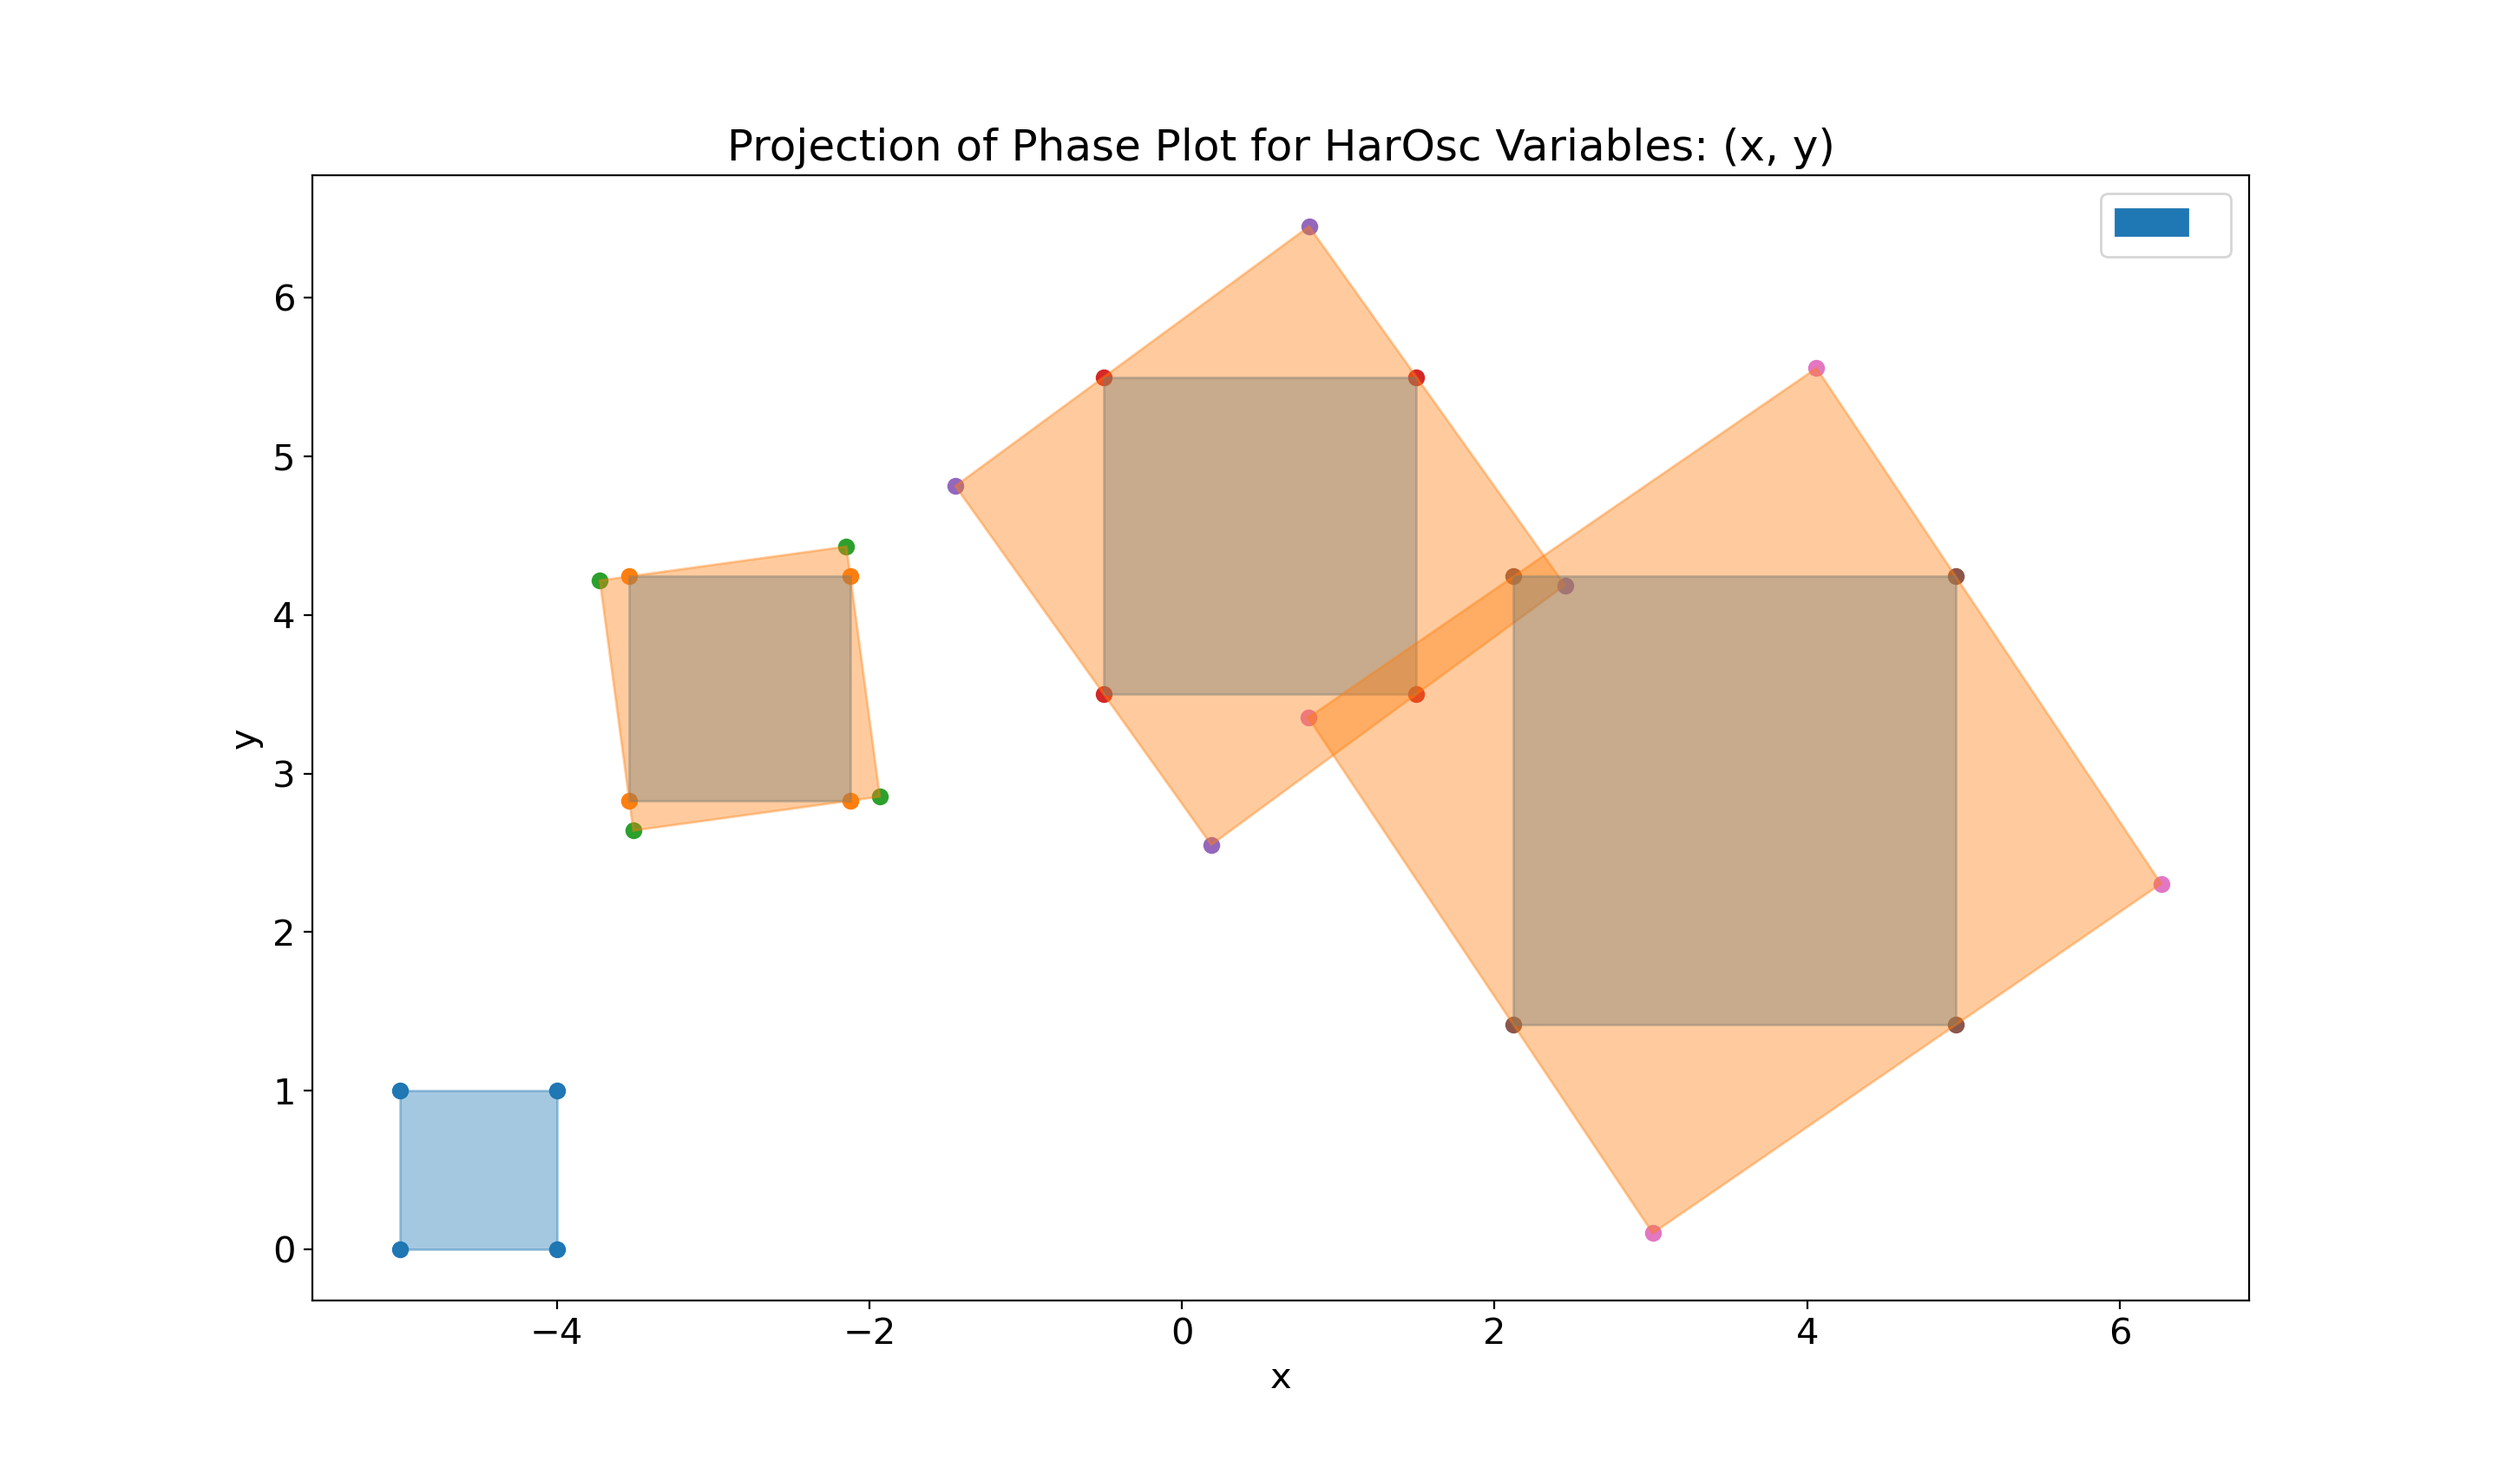
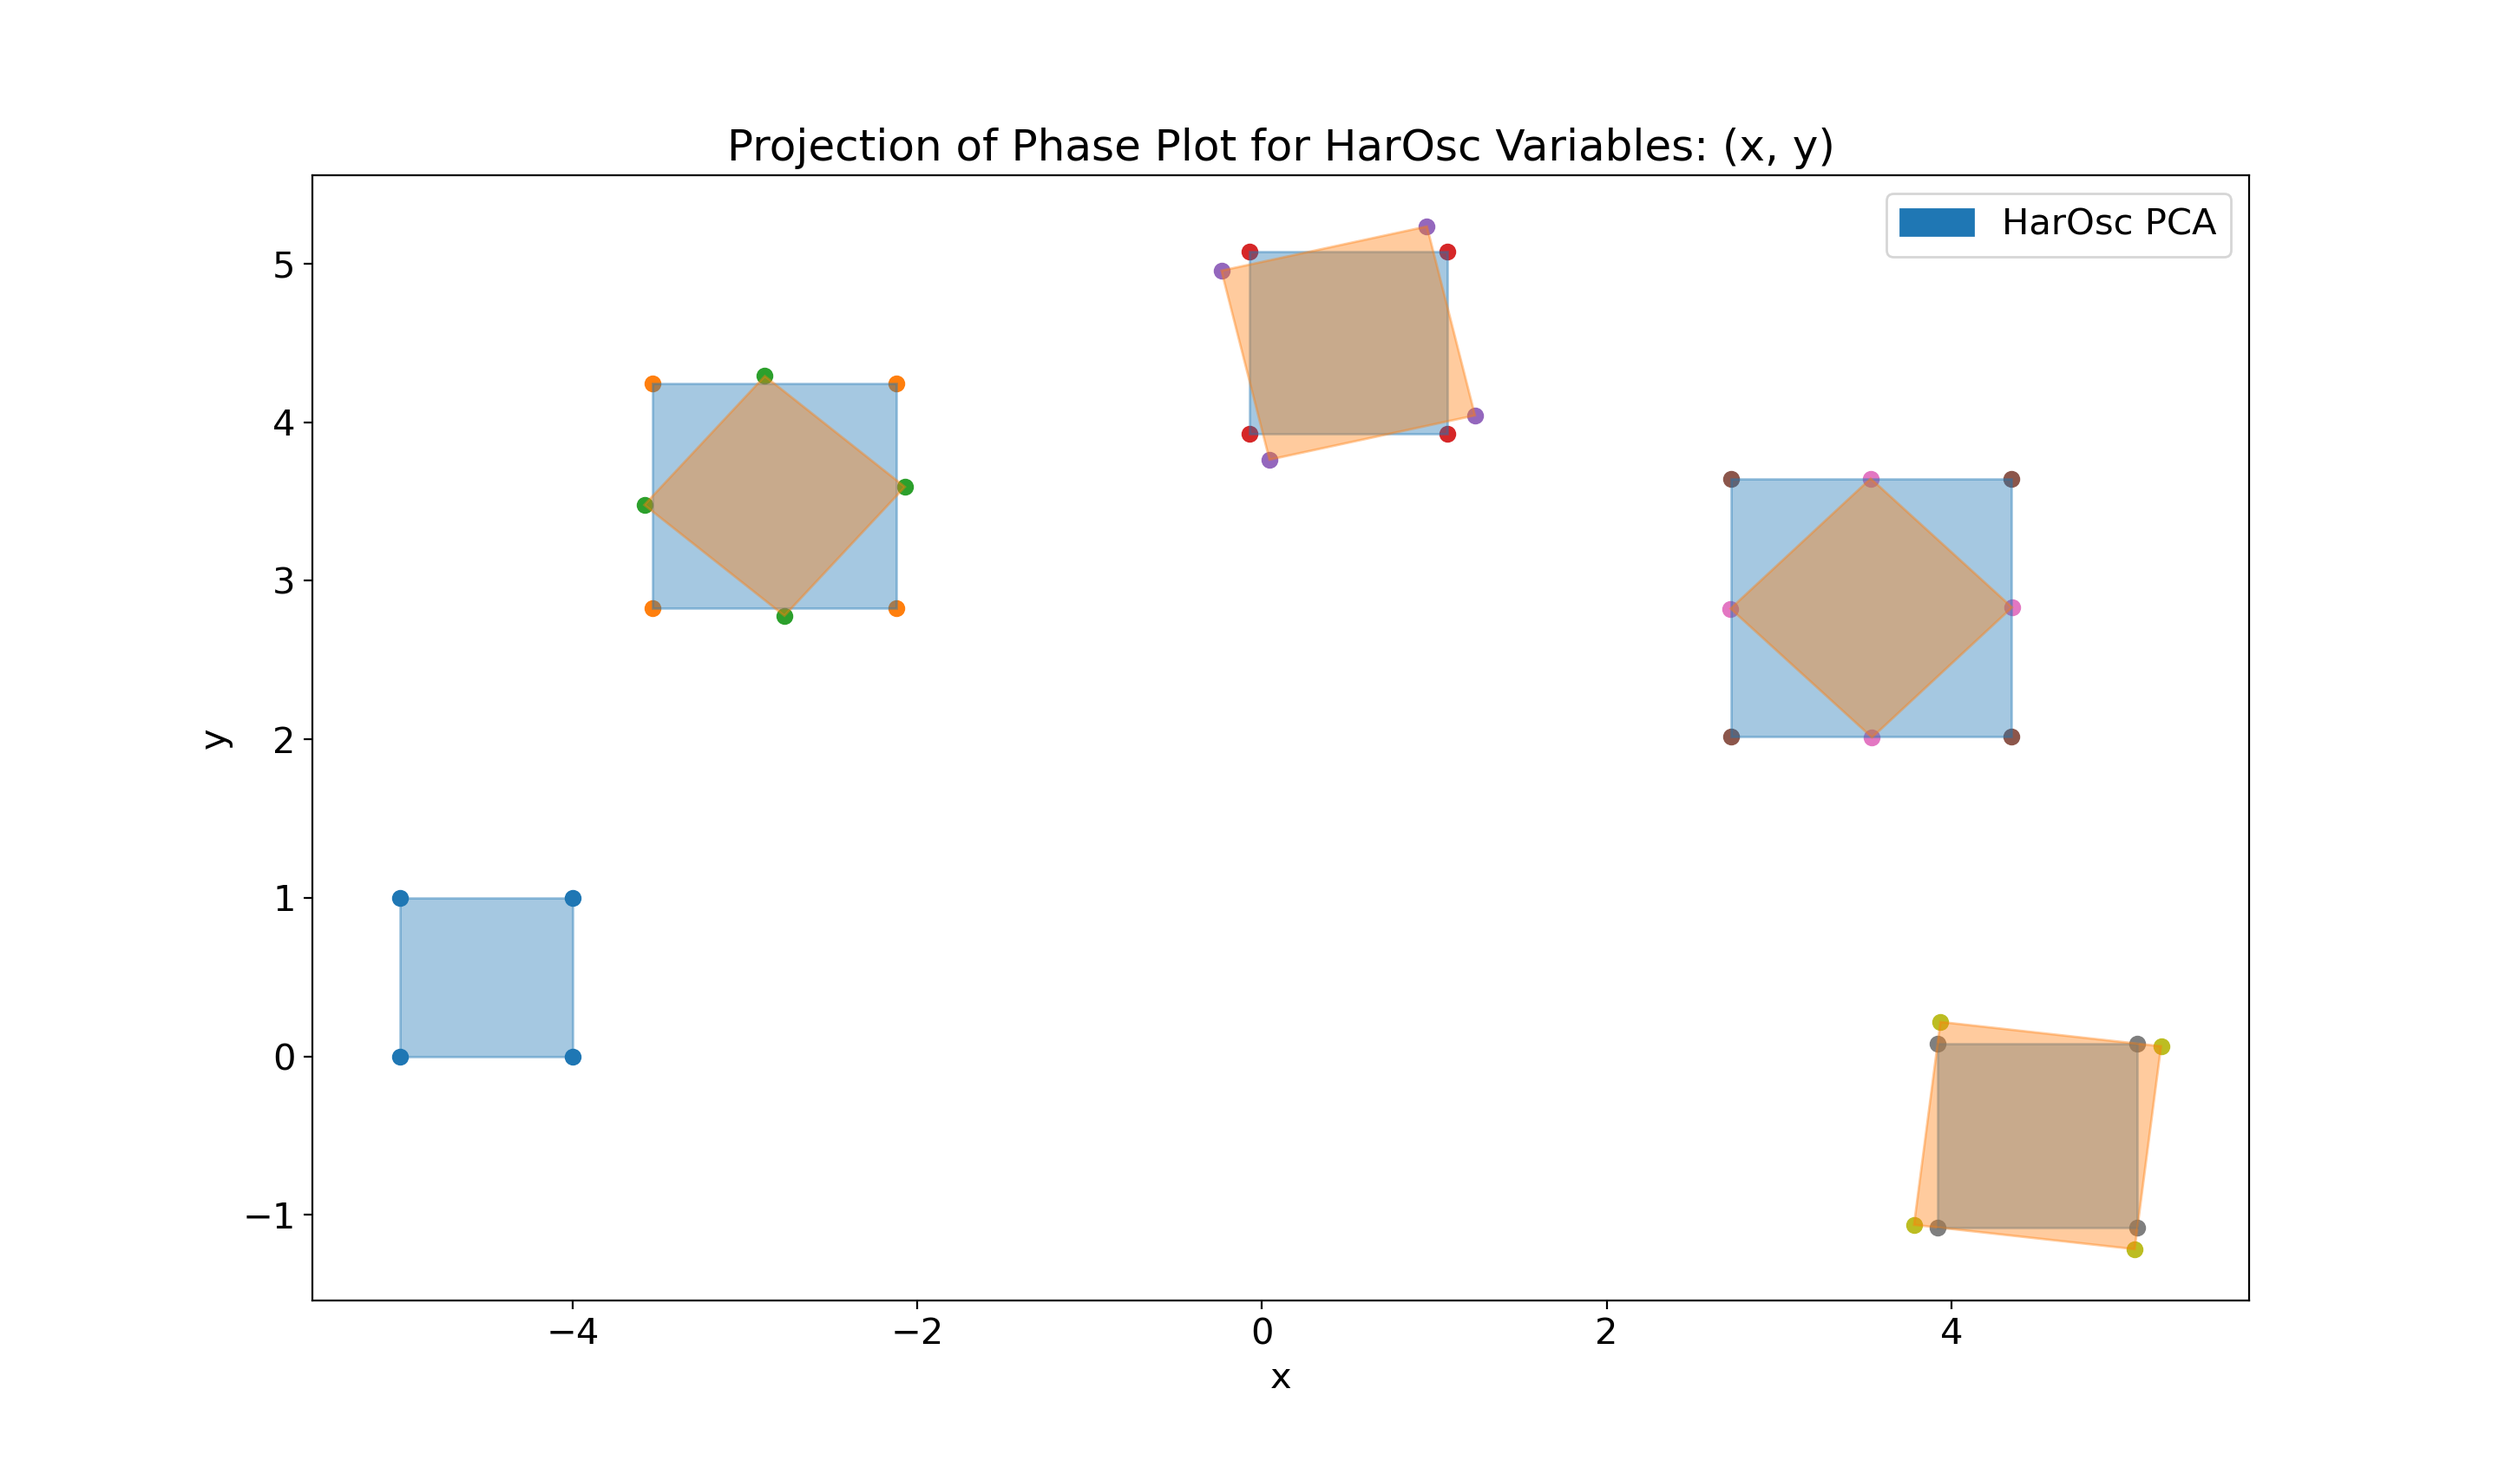
Intermediate commit of PCA/LinStrat experiments. Major code structure changes are needed to accomodate more than one strategy poking with the directions and templates matrices

diff --git a/tests/models/test_vdr.py b/tests/models/test_vdr.py
@@ -12,16 +12,16 @@ PlotSettings.save_fig = False
 
 def test_VDP():
 
-    NUM_STEPS = 100
+    NUM_STEPS = 4
 
     model = VanDerPol()
     unit_model = VanDerPol_UnitBox()
 
-    mod_reach = ReachSet(model)
+    #mod_reach = ReachSet(model)
     unit_mod_reach = ReachSet(unit_model)
-    mod_flow = mod_reach.computeReachSet(NUM_STEPS)
+    #mod_flow = mod_reach.computeReachSet(NUM_STEPS)
 
-    VDP_PCA_ITER_STEPS = 100 #Number of steps between each recomputation of PCA Templates.
+    VDP_PCA_ITER_STEPS = 1 #Number of steps between each recomputation of PCA Templates.
     'PCA Strategy Parameters'
     VDP_PCA_TRAJ_STEPS = 5 #Number of steps our sample trajectories should run.
     VDP_PCA_NUM_TRAJ = 100 #Number of sample trajectories we should use for the PCA routine.
@@ -30,35 +30,36 @@ def test_VDP():
     mod_pca_flow = unit_mod_reach.computeReachSet(NUM_STEPS, tempstrat=pca_strat)
 
     vdp_plot = Plot()
-    vdp_plot.add(mod_flow, "VDP SAPO")
+    #vdp_plot.add(mod_flow, "VDP SAPO")
     vdp_plot.add(mod_pca_flow, "VDP PCA")
-    vdp_plot.plot2DPhase(0,1, separate=False, plotvertices=True)
+    vdp_plot.plot2DPhase(0,1, separate=True, plotvertices=True)
 
     Timer.generate_stats()
 
 
 def test_lin_VDP():
 
-    NUM_STEPS = 100
+    NUM_STEPS = 4
 
     model = VanDerPol()
     unit_model = VanDerPol_UnitBox()
 
-    mod_reach = ReachSet(model)
-    unit_mod_reach = ReachSet(unit_model)
-    mod_flow = mod_reach.computeReachSet(NUM_STEPS)
+    #mod_reach = ReachSet(model)
+    unit_mod_reach = ReachSet(model)
+    #mod_flow = mod_reach.computeReachSet(NUM_STEPS)
 
-    VDP_PCA_ITER_STEPS = 10 #Number of steps between each recomputation of PCA Templates.
+    VDP_LIN_ITER_STEPS = 1 #Number of steps between each recomputation of PCA Templates.
+    VDP_PCA_ITER_STEPS = 1 #Number of steps between each recomputation of PCA Templates.
     'PCA Strategy Parameters'
     VDP_PCA_TRAJ_STEPS = 5 #Number of steps our sample trajectories should run.
     VDP_PCA_NUM_TRAJ = 100 #Number of sample trajectories we should use for the PCA routine.
 
-    pca_strat = LinStrat(unit_model, iter_steps=VDP_PCA_ITER_STEPS)
+    pca_strat = LinStrat(model, iter_steps=VDP_LIN_ITER_STEPS)
     mod_pca_flow = unit_mod_reach.computeReachSet(NUM_STEPS, tempstrat=pca_strat)
 
     vdp_plot = Plot()
-    vdp_plot.add(mod_flow)
-    vdp_plot.add(mod_pca_flow)
-    vdp_plot.plot2DPhase(0,2, separate=False, plotvertices=True)
+    #vdp_plot.add(mod_flow)
+    vdp_plot.add(mod_pca_flow, "VDP LinApp Strat")
+    vdp_plot.plot2DPhase(0,1, separate=True, plotvertices=True)
 
     Timer.generate_stats()

diff --git a/tests/models/test_harosc.py b/tests/models/test_harosc.py
@@ -14,6 +14,8 @@ PlotSettings.save_fig = False
 
 def test_HarOsc():
 
+    NUM_STEPS = 4
+
     model = HarOsc()
     #trajs = generate_traj(model, 10, 200)
     mod_reach = ReachSet(model)
@@ -21,19 +23,17 @@ def test_HarOsc():
 
     sir_plot = Plot()
 
-    #mod_flow = mod_reach.computeReachSet(NUM_STEPS)
-
     SIR_PCA_ITER_STEPS = 1 #Number of steps between each recomputation of PCA Templates.
     'PCA Strategy Parameters'
-    SIR_PCA_TRAJ_STEPS = 1 #Number of steps our sample trajectories should run.
+    SIR_PCA_TRAJ_STEPS = 2 #Number of steps our sample trajectories should run.
     SIR_PCA_NUM_TRAJ = 100 #Number of sample trajectories we should use for the PCA routine.
 
     pca_strat = PCAStrat(model, traj_steps=SIR_PCA_TRAJ_STEPS, num_trajs=SIR_PCA_NUM_TRAJ, iter_steps=SIR_PCA_ITER_STEPS)
-    mod_pca_flow = mod_reach.computeReachSet(3, tempstrat=pca_strat, transmode=BundleMode.AFO)
+    mod_pca_flow = mod_reach.computeReachSet(NUM_STEPS, tempstrat=pca_strat, transmode=BundleMode.AFO)
     #trajs = generate_traj(model, 10, 200)
 
     'Generaste the trajectories and add them to the plot.'
-    sir_plot.add(mod_pca_flow)
+    sir_plot.add(mod_pca_flow, "HarOsc PCA")
     sir_plot.plot2DPhase(0,1, separate=True, plotvertices=True)
     
     Timer.generate_stats()
@@ -41,7 +41,7 @@ def test_HarOsc():
 
 def test_lin_HarOsc():
 
-    NUM_STEPS = 3
+    NUM_STEPS = 5
 
     model = HarOsc()
     #trajs = generate_traj(model, 10, 200)
@@ -52,17 +52,14 @@ def test_lin_HarOsc():
 
     #mod_flow = mod_reach.computeReachSet(NUM_STEPS)
 
-    SIR_PCA_ITER_STEPS = 1 #Number of steps between each recomputation of PCA Templates.
-    'PCA Strategy Parameters'
-    SIR_PCA_TRAJ_STEPS = 1 #Number of steps our sample trajectories should run.
-    SIR_PCA_NUM_TRAJ = 100 #Number of sample trajectories we should use for the PCA routine.
+    SIR_LIN_ITER_STEPS = 1 #Number of steps between each recomputation of PCA Templates.
 
-    pca_strat = LinStrat(model, iter_steps=SIR_PCA_ITER_STEPS)
-    mod_pca_flow = mod_reach.computeReachSet(NUM_STEPS, tempstrat=pca_strat, transmode=BundleMode.AFO)
+    lin_strat = LinStrat(model, iter_steps=SIR_LIN_ITER_STEPS)
+    mod_lin_flow = mod_reach.computeReachSet(NUM_STEPS, tempstrat=lin_strat, transmode=BundleMode.AFO)
     trajs = [Traj(model, point, steps=NUM_STEPS) for point in product([-5,-4],[0,1])]
 
     'Generaste the trajectories and add them to the plot.'
-    sir_plot.add(mod_pca_flow, "HarOsc LINAPP")
+    sir_plot.add(mod_lin_flow, "HarOsc LINAPP")
     for t in trajs:
         sir_plot.add(t)
 

diff --git a/kaa/temp/pca_strat.py b/kaa/temp/pca_strat.py
@@ -17,19 +17,15 @@ class PCAStrat(TempStrategy):
         self.traj_steps = traj_steps
         self.num_trajs = num_trajs
         self.iter_steps = iter_steps
+        self.curr_temp = None
 
 
     def open_strat(self, bund):
         if not self.counter % self.iter_steps:
-
-            if self.counter:
-               'We remove the last template added through PCA'
-               bund.remove_temp(self.temp_hash['PCATemp'])
-               bund.remove_dir(self.dir_hash['PCADir'])
-               self.pop_dir('PCADir')
-               self.pop_temp('PCATemp')
+            print(f"OPEN TEMP: {bund.T}")
 
             #print("Before: L: {} \n T: {}".format(bund.L, bund.T))
+            #
             #print("Before: offu: {}  offl: {}".format(bund.offu, bund.offl))
 
             trajs = generate_traj(bund, self.num_trajs, self.traj_steps)
@@ -47,18 +43,29 @@ class PCAStrat(TempStrategy):
             mean = pca.mean_
 
             dir_idxs = bund.add_dir(comps)
-            temp_idxs = bund.add_temp([dir_idxs])
 
             self.hash_dir('PCADir',dir_idxs)
-            self.hash_temp('PCATemp', temp_idxs)
+            self.curr_temp = dir_idxs
             
             #print("After:  L: {} \n T: {}".format(bund.L, bund.T))
             #print("After: offu: {} \n  offl: {}".format(bund.offu, bund.offl))
-            
-        self.counter += 1
+
         return bund
         
     def close_strat(self, bund):
+
+        if not self.counter % self.iter_steps:
+
+            if self.counter:
+                bund.remove_temp(self.temp_hash['PCATemp'])
+                self.pop_temp('PCATemp')
+
+            temp_idx = bund.add_temp([self.curr_temp])
+            self.hash_temp('PCATemp', temp_idx)
+
+        print(f"CLOSE TEMP MAT: {bund.T}")
+
+        self.counter += 1
         return bund
 
 

diff --git a/kaa/temp/lin_app_strat.py b/kaa/temp/lin_app_strat.py
@@ -17,38 +17,41 @@ class LinStrat(TempStrategy):
         for i in range(self.dim):
             self.unit_dir_mat[i][i] = 1
 
+        self.curr_temp = None
+        self.curr_dir = None
+
     def open_strat(self, bund):
         if not self.counter % self.iter_steps:
 
-            "Remove previous iteration's templates and directions."
-            if self.counter:
-                bund.remove_temp(self.temp_hash['LinTemp'])
-                bund.remove_dir(self.dir_hash['LinDir'])
-                self.pop_temp('LinTemp')
-                self.pop_dir('LinDir')
+            print(f"OPEN DIR: {bund.L}")
 
             approx_A = self._approx_A(bund, self.dim)
             inv_A = np.linalg.inv(approx_A)
-
-            #print(f"Approx A: {approx_A}")
-            #print(f"Inv A: {inv_A}")
-
             lin_dir = np.dot(self.unit_dir_mat, inv_A)
 
-            print(lin_dir)
-
             dir_idxs = bund.add_dir(lin_dir)
-            temp_idxs = bund.add_temp([dir_idxs])
+            self.curr_temp = dir_idxs
 
-            self.hash_temp('LinTemp', temp_idxs)
             self.hash_dir('LinDir', dir_idxs)
+            self.unit_dir_mat = lin_dir
 
-        self.counter += 1
         return bund
 
 
     def close_strat(self, bund):
-        pass
+        
+        if not self.counter % self.iter_steps:
+            
+            if self.counter:
+                bund.remove_temp(self.temp_hash['LinTemp'])
+                self.pop_temp('LinTemp')
+                
+            temp_idx = bund.add_temp([self.curr_temp])
+            self.hash_temp('LinTemp', temp_idx)
+            
+        self.counter += 1
+        print(f"CLOSE TEMP MAT: {bund.T}")
+
 
     def _approx_A(self, bund, num_traj):
 

diff --git a/kaa/bundle.py b/kaa/bundle.py
@@ -195,7 +195,7 @@ class BundleTransformer:
 
             for column in direct_iter:
                 curr_L = bund.L[column]
-                #print(f"Curr_L: {curr_L}")
+                print(f"Curr_L: {curr_L}")
                 ub, lb = self.find_bounds(curr_L, ptope, bund)
 
                 new_offu[column] = min(ub, new_offu[column])
@@ -204,8 +204,8 @@ class BundleTransformer:
         bund.offu = new_offu
         bund.offl = new_offl
 
-        #print("Upper Offsets: {}\n".format(bund.offu))
-        #print("Lower Offsets: {}\n".format(bund.offl))
+        print("Upper Offsets: {}\n".format(bund.offu))
+        print("Lower Offsets: {}\n".format(bund.offl))
 
         bund.canonize()
         return bund

diff --git a/models/harosc.py b/models/harosc.py
@@ -6,7 +6,7 @@ from kaa.model import Model
 
 class HarOsc(Model):
 
-    def __init__(self, delta=0.05):
+    def __init__(self, init_box=[[-5,-4],[0,1]]):
 
         x,y = sp.Symbol('x'), sp.Symbol('y')
 
@@ -36,14 +36,9 @@ class HarOsc(Model):
         offu = np.empty(2)
         offl = np.empty(2)
 
-        offu[0] = -4
-        offu[1] = 1
-        #offu[2] = 5
-        #offu[3] = 5
+        for i in range(2):
+            offu[i] = init_box[i][1]
+            offl[i] = - init_box[i][0]
 
-        offl[0] = 5
-        offl[1] = 0
-        #offl[2] = 5
-        #offl[3] = 5
-        #
+
         super().__init__(dyns, vars, T, L, offu, offl, name="HarOsc")

diff --git a/kaa/reach.py b/kaa/reach.py
@@ -42,8 +42,8 @@ class ReachSet:
 
             strat.open_strat(starting_bund)
             trans_bund = transformer.transform(starting_bund)
-            #strat.close_strat(trans_bund)
-
+            strat.close_strat(trans_bund)
+            
             #print("Close: L: {} \n T: {}".format(trans_bund.L, trans_bund.T))
             #print("Close: Offu: {} Offl{}".format(trans_bund.offu, trans_bund.offl))
 

diff --git a/models/vanderpol.py b/models/vanderpol.py
@@ -9,7 +9,7 @@ class VanDerPol(Model):
 
     def __init__(self, delta=0.02):
 
-        x, y = sp.Symbol('x'), s.Symbol('y')
+        x, y = sp.Symbol('x'), sp.Symbol('y')
         dx = x + y*delta
         dy = y + (1*(1-x**2)*y - 2*x + x)*delta
 
